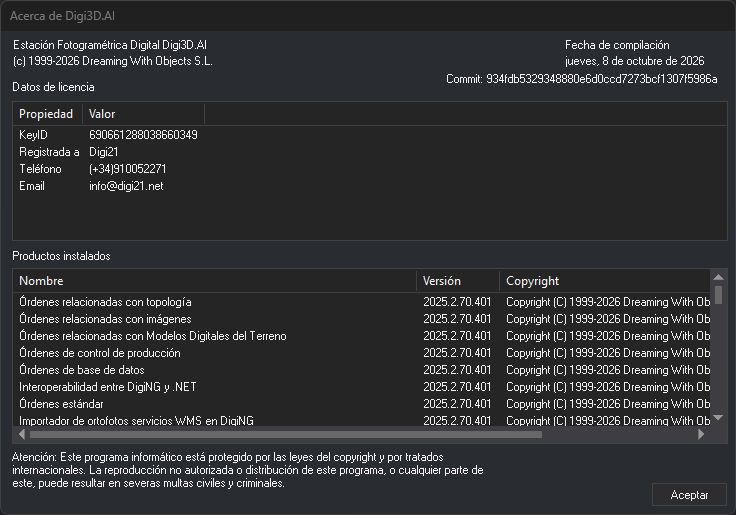
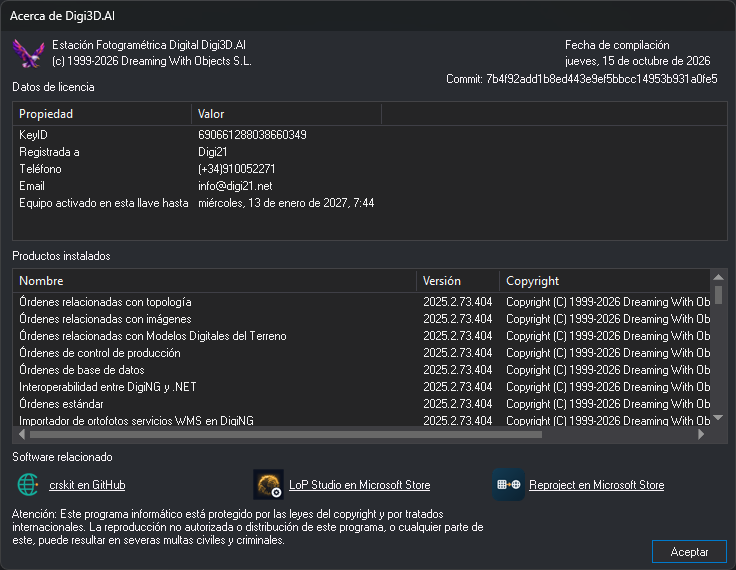
Acerca de Digi3D.AI: captura nueva con la activación del equipo y el software relacionado
El cuadro muestra el icono de la aplicación, la fecha hasta la que el equipo está activado en la llave y los enlaces a crskit en GitHub y a LoP Studio y Reproject en la Microsoft Store. La página describe los dos campos nuevos.

diff --git a/src/digi3d-ai/referencia/cuadros-de-dialogo/acerca-de-digi3d-ai.md b/src/digi3d-ai/referencia/cuadros-de-dialogo/acerca-de-digi3d-ai.md
@@ -15,5 +15,10 @@ Selecciona la opción del menú **Ayuda/Acerca de Digi3D...**.
 * **Datos de licencia**: las propiedades de la llave de protección:
   * **KeyID**: el número de la llave.
   * **Registrada a**, **Teléfono** y **Email**: los datos del cliente al que está registrada la llave.
+  * **Equipo activado en esta llave hasta**: la fecha hasta la que este equipo está activado en la llave de protección. Es la fecha máxima que se eligió al activar el equipo. No aparece si el equipo no está activado en la llave.
 * **Productos instalados**: el programa y cada una de las extensiones cargadas (órdenes, importadores y exportadores, sensores de la ventana fotogramétrica y dispositivos de entrada), con su nombre, su versión y su copyright.
+* **Software relacionado**: otros programas de Digi21. Cada enlace abre su página en el navegador:
+  * **crskit en GitHub**: el repositorio de crskit, la biblioteca de sistemas de referencia de coordenadas que usa Digi3D.AI.
+  * **LoP Studio en Microsoft Store**: la página de LoP Studio en la Microsoft Store, desde la que se instala.
+  * **Reproject en Microsoft Store**: la página de Reproject en la Microsoft Store, desde la que se instala.
 * **Aceptar**: cierra el cuadro de diálogo.
